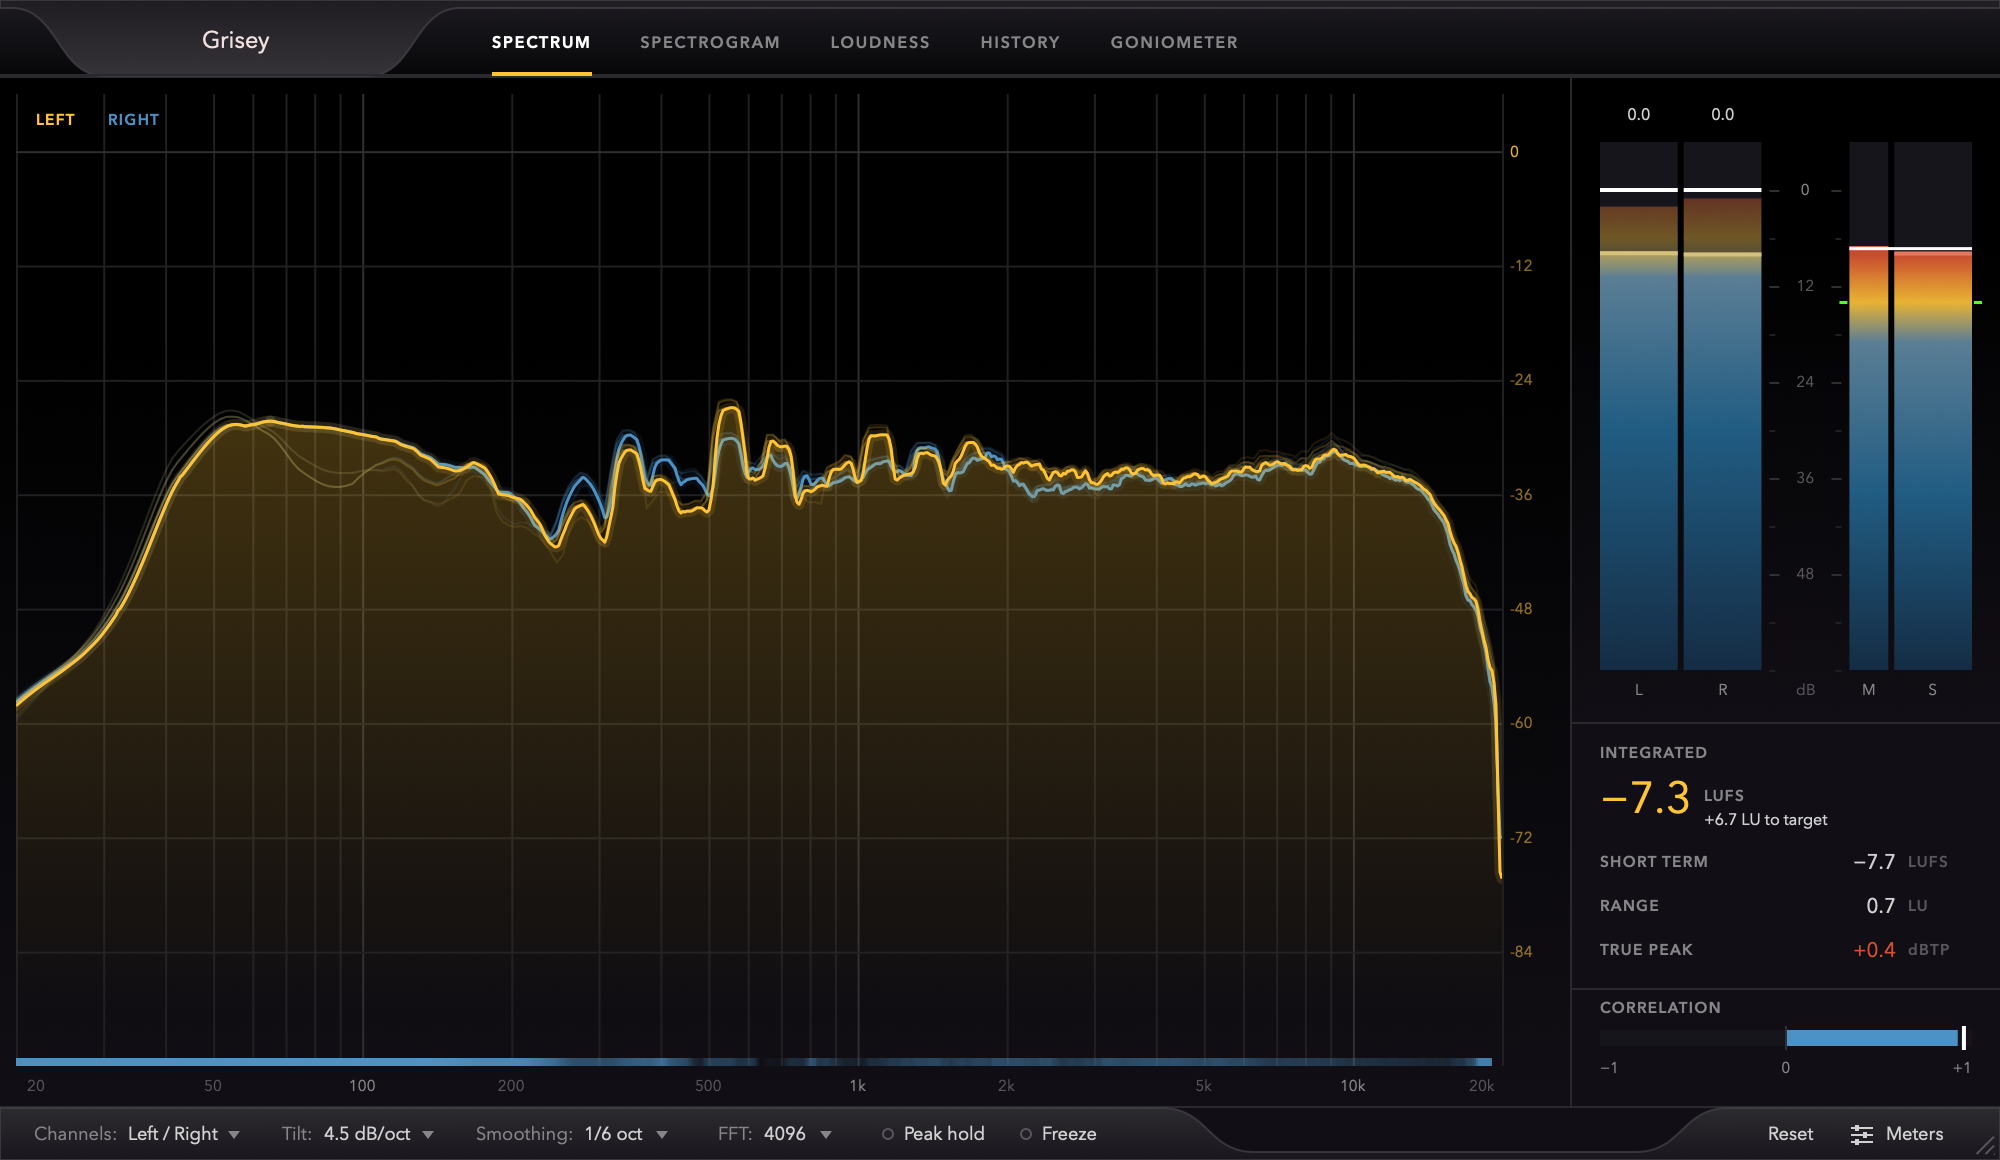
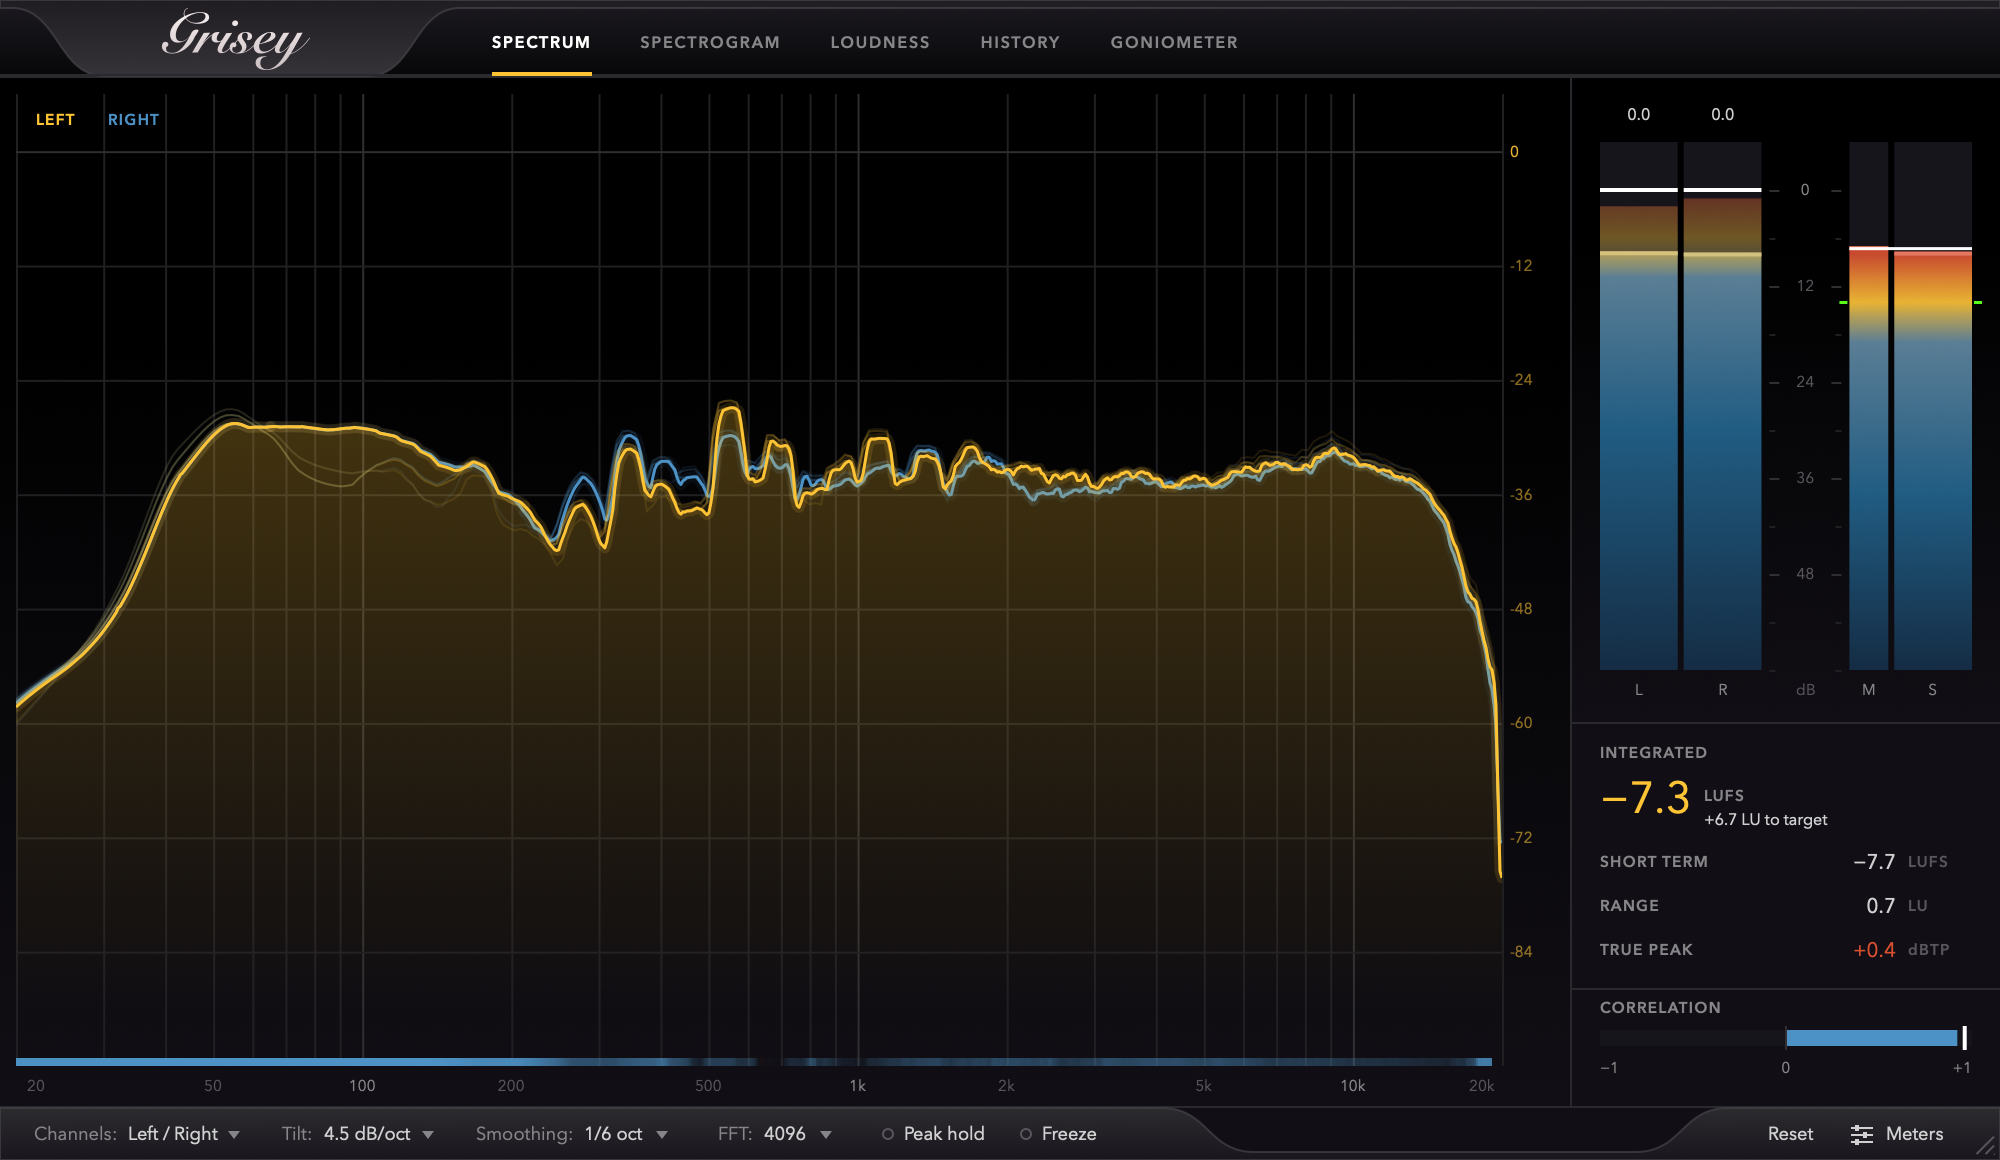
Set the name in a script, as an outline
The name in the header was plain text in the typeface of everything else. It
is now in Snell Roundhand Bold, in the silver that it had, a little lighter at
the top than at the bottom, and large enough to fill its tab.

Few computers that are not Macs have that typeface, so the name is not drawn as
text. The snapshot tool writes its outline (GriseySnapshot out.svg wordmark
"Snell Roundhand" Bold Source/UI/Wordmark.h): as the data of an SVG path in a
header, which the editor reads once and fills, and as an SVG on a dark plate,
which heads the README. To change the cut or the typeface, run it again.

diff --git a/Source/UI/Wordmark.h b/Source/UI/Wordmark.h
@@ -1,0 +1,84 @@
+#pragma once
+
+// The name of the plugin as an outline, so that it is drawn the same on every computer, whether or not
+// it has the typeface. Written by: GriseySnapshot docs/images/wordmark.svg wordmark "Snell Roundhand" Bold Source/UI/Wordmark.h
+// The outline is the data of an SVG path, 419.03 wide and 175.42 high, from the top left.
+namespace Wordmark
+{
+    inline constexpr float width = 419.03f;
+    inline constexpr float height = 175.42f;
+
+    inline constexpr const char* outline =
+        "M73.59 1.27Q69.15 2.38 66.3 6.34Q63.44 10.31 63.44 14.91Q63.44 16.97 63.68 19.11Q63.92 21.25 64.71 23Q68.99 20"
+        ".78 74.23 18.72Q79.46 16.65 85.17 15.15Q90.88 13.64 96.75 12.69Q102.62 11.74 108.01 11.74Q120.22 11.74 126.8 1"
+        "5.23Q133.39 18.72 133.39 26.33Q133.39 31.88 129.98 35.45Q126.57 39.02 121.57 41.08Q116.57 43.14 111.02 43.93Q1"
+        "05.47 44.73 101.35 44.73Q90.4 44.73 82 41.4Q73.59 38.07 66.61 29.82Q61.7 33.62 56.78 38.86Q51.86 44.09 47.9 50"
+        ".2Q43.93 56.3 41.55 63.05Q39.18 69.79 39.18 76.45Q39.18 80.1 39.89 83.35Q40.6 86.6 42.35 88.98Q44.09 91.36 46."
+        "87 92.78Q49.64 94.21 53.61 94.21Q56.94 94.21 60.9 92.78Q64.87 91.36 68.6 88.98Q72.32 86.6 75.34 83.66Q78.35 80"
+        ".73 79.78 77.72Q81.52 74.23 83.03 71.21Q84.54 68.2 86.52 65.9Q88.5 63.6 91.36 62.33Q94.21 61.06 98.49 61.06Q10"
+        "3.41 61.06 103.41 62.81Q103.41 64.87 101.9 67.64Q100.4 70.42 98.49 73.28Q96.59 76.13 94.77 78.59Q92.94 81.05 9"
+        "2.31 82.79Q90.88 86.6 87.95 91.51Q85.01 96.43 80.89 101.51Q76.76 106.58 71.29 111.5Q65.82 116.42 59.24 120.22Q"
+        "52.66 124.03 44.89 126.41Q37.11 128.79 28.23 128.79Q23.47 128.79 18.4 127.76Q13.32 126.72 9.28 124.35Q5.23 121"
+        ".97 2.62 118.08Q0 114.2 0 108.64Q0 103.57 2.3 99.6Q4.6 95.64 9.99 95.64Q13.01 95.64 15.54 97.38Q18.08 99.13 18"
+        ".08 103.57Q18.08 108.64 12.37 109.91Q12.21 111.02 11.97 112.13Q11.74 113.24 11.74 114.51Q11.74 118.64 13.24 12"
+        "1.09Q14.75 123.55 17.29 124.82Q19.83 126.09 23.08 126.49Q26.33 126.88 29.82 126.88Q38.38 126.88 45.36 122.52Q5"
+        "2.34 118.16 58.05 111.66Q63.76 105.15 68.44 97.7Q73.12 90.25 77.08 84.22L76.76 83.9Q73.59 86.76 69.87 89.29Q66"
+        ".14 91.83 62.09 93.74Q58.05 95.64 53.69 96.83Q49.33 98.02 44.89 98.02Q34.42 98.02 28.71 91.67Q23 85.33 23 75.1"
+        "8Q23 66.3 26.57 58.6Q30.13 50.91 35.84 44.49Q41.55 38.07 48.61 32.83Q55.67 27.6 62.81 23.63Q62.33 21.89 61.93 "
+        "20.3Q61.54 18.72 61.54 16.34Q61.54 10.31 64.79 5.95Q68.04 1.59 73.59 0L73.59 1.27ZM123.24 23.95Q123.24 19.19 1"
+        "19.83 16.42Q116.42 13.64 107.06 13.64Q102.62 13.64 97.22 14.91Q91.83 16.18 86.36 18.32Q80.89 20.46 76.05 23.24"
+        "Q71.21 26.01 67.88 28.87Q73.43 35.53 80.02 38.7Q86.6 41.87 95.48 41.87Q101.35 41.87 106.42 40.44Q111.5 39.02 1"
+        "15.23 36.56Q118.95 34.1 121.09 30.85Q123.24 27.6 123.24 23.95ZM85.33 126.25Q93.42 112.29 101.74 98.49Q110.07 8"
+        "4.69 118.32 70.42L136.4 69.79L115.46 99.29L115.78 99.6Q121.81 92.15 126.49 87.63Q131.17 83.11 134.66 80.25Q138"
+        ".14 77.4 140.52 75.89Q142.9 74.39 144.01 73.28Q145.76 71.53 147.26 70.5Q148.77 69.47 150.83 68.91Q152.89 68.36"
+        " 155.83 68.2Q158.76 68.04 163.2 67.88Q160.19 72.16 157.65 76.84Q155.11 81.52 155.11 86.92Q155.11 93.74 161.93 "
+        "93.74Q164.16 93.74 166.3 92.78Q168.44 91.83 170.34 90.4Q172.24 88.98 173.99 87.31Q175.73 85.65 177.16 84.22L17"
+        "7.8 85.01Q173.35 90.56 167.33 94.05Q161.3 97.54 154.16 97.54Q147.82 97.54 144.17 94.21Q140.52 90.88 140.52 84."
+        "38Q140.52 80.25 142.9 76.61L142.59 76.29Q135.92 80.73 129.9 86.6Q123.87 92.47 118.72 98.97Q113.56 105.47 109.2"
+        " 112.37Q104.84 119.27 101.35 125.77L85.33 126.25ZM198.57 70.42Q191.12 82.16 185.73 90.48Q180.33 98.81 176.92 1"
+        "04.68Q173.51 110.55 171.85 114.27Q170.18 118 170.18 120.38Q170.18 122.28 170.9 123.47Q171.61 124.66 173.04 124"
+        ".66Q176.21 124.66 182 121.02Q187.79 117.37 196.51 108.49Q200 104.84 203.33 101.27Q206.66 97.7 209.6 94.37Q212."
+        "53 91.04 214.83 88.34Q217.13 85.65 218.56 84.06L219.98 85.01Q218.08 87.55 215.31 90.8Q212.53 94.05 209.36 97.6"
+        "2Q206.19 101.19 202.85 104.68Q199.52 108.17 196.35 111.34Q187.15 120.54 180.57 124.19Q173.99 127.84 168.44 127"
+        ".84Q163.2 127.84 160.35 124.98Q157.49 122.13 157.49 117.53Q157.49 114.35 158.68 110.94Q159.87 107.53 162.73 10"
+        "2.46Q165.58 97.38 170.34 89.85Q175.1 82.32 182.24 71.21L198.57 70.42ZM207.77 35.21Q210.79 35.21 213.08 37.43Q2"
+        "15.38 39.65 215.38 42.66Q215.38 45.84 212.85 48.45Q210.31 51.07 207.14 51.07Q203.65 51.07 201.11 49.25Q198.57 "
+        "47.42 198.57 43.77Q198.57 40.13 201.35 37.67Q204.12 35.21 207.77 35.21ZM226.96 125.77Q235.05 124.03 241.95 119"
+        ".83Q248.85 115.62 254.88 109.99Q260.9 104.36 266.22 97.78Q271.53 91.2 276.61 84.54L277.87 85.49Q271.53 93.74 2"
+        "65.19 101.59Q258.84 109.44 251.31 115.46Q243.77 121.49 234.81 125.14Q225.85 128.79 214.27 128.79Q210.15 128.79"
+        " 206.11 127.91Q202.06 127.04 198.81 125.06Q195.56 123.08 193.58 119.83Q191.59 116.57 191.59 111.82Q191.59 109."
+        "28 192.31 106.74Q193.02 104.2 194.45 102.14Q195.88 100.08 198.02 98.73Q200.16 97.38 203.01 97.38Q206.66 97.38 "
+        "208.64 99.44Q210.63 101.51 210.63 104.2Q210.63 107.53 208.72 109.28Q206.82 111.02 204.28 111.02Q202.22 111.02 "
+        "200.79 110.23Q200 111.66 199.44 113.32Q198.89 114.99 198.89 116.73Q198.89 121.17 202.3 124.03Q205.71 126.88 21"
+        "0.31 126.88Q213.16 126.88 216.1 125.93Q219.03 124.98 221.33 123.16Q223.63 121.33 225.06 118.79Q226.49 116.26 2"
+        "26.49 113.24Q226.49 109.12 224.5 105.71Q222.52 102.3 220.14 99.13Q217.76 95.96 215.78 92.7Q213.8 89.45 213.8 8"
+        "5.8Q213.8 81.36 215.86 78.03Q217.92 74.7 221.25 72.4Q224.58 70.1 228.71 68.99Q232.83 67.88 237.11 67.88Q244.73"
+        " 67.88 249.88 71.13Q255.04 74.39 255.04 80.41Q255.04 85.01 252.02 87.95Q249.01 90.88 244.41 90.88Q242.98 90.88"
+        " 241.79 90.64Q240.6 90.4 239.81 90.09Q241.55 86.92 242.27 83.82Q242.98 80.73 242.98 77.72Q242.98 74.54 241.16 "
+        "72.16Q239.33 69.79 235.69 69.79Q231.25 69.79 228.87 72.56Q226.49 75.34 226.49 79.46Q226.49 83.9 228.47 87.31Q2"
+        "30.45 90.72 232.83 93.89Q235.21 97.07 237.19 100.56Q239.18 104.04 239.18 108.8Q239.18 111.82 238.14 114.67Q237"
+        ".11 117.53 235.37 119.75Q233.62 121.97 231.48 123.47Q229.34 124.98 226.96 125.46L226.96 125.77ZM343.06 84.69Q3"
+        "38.14 91.36 332.51 97.86Q326.88 104.36 319.11 111.5Q308.17 121.33 298.1 125.06Q288.03 128.79 279.14 128.79Q270"
+        ".1 128.79 264.87 123.39Q259.64 118 259.64 109.44Q259.64 101.82 264.23 94.37Q268.83 86.92 275.81 81.05Q282.79 7"
+        "5.18 291.12 71.53Q299.44 67.88 306.9 67.88Q313.72 67.88 317.53 70.5Q321.33 73.12 321.33 77.87Q321.33 81.68 318"
+        ".72 84.85Q316.1 88.03 311.97 90.56Q307.85 93.1 302.7 95Q297.54 96.91 292.47 98.33Q287.39 99.76 282.95 100.71Q2"
+        "78.51 101.67 275.65 102.3Q274.86 105.47 274.86 108.01Q274.86 114.83 278.67 119.11Q282.47 123.39 289.29 123.39Q"
+        "295.96 123.39 303.97 119.43Q311.97 115.46 320.06 107.85Q326.25 101.98 331.96 95.56Q337.67 89.14 341.95 83.58L3"
+        "43.06 84.69ZM308.64 73.91Q308.64 71.69 307.45 70.74Q306.26 69.79 304.36 69.79Q300.4 69.79 295.8 73.12Q291.2 76"
+        ".45 287.15 81.28Q283.11 86.12 280.02 91.44Q276.92 96.75 275.97 100.71Q282.47 99.44 288.34 96.51Q294.21 93.58 2"
+        "98.73 89.85Q303.25 86.12 305.95 81.92Q308.64 77.72 308.64 73.91ZM295.48 138.78Q294.69 138.62 292.62 138.62Q285"
+        ".8 138.62 282.08 143.54Q278.35 148.45 278.35 155.59Q278.35 164 283.51 168.75Q288.66 173.51 296.27 173.51Q304.3"
+        "6 173.51 311.5 170.1Q318.64 166.69 324.82 161.06Q331.01 155.43 336.48 148.22Q341.95 141 346.63 133.39Q351.31 1"
+        "25.77 355.43 118.48Q359.56 111.18 363.05 105.31L362.73 105Q360.35 107.85 356.78 111.74Q353.21 115.62 348.77 11"
+        "9.19Q344.33 122.76 339.41 125.3Q334.5 127.84 329.42 127.84Q324.19 127.84 321.89 124.82Q319.59 121.81 319.59 11"
+        "7.68Q319.59 113.72 321.81 108.64Q324.03 103.57 327.44 97.46Q330.85 91.36 335.13 84.54Q339.41 77.72 343.7 70.42"
+        "L360.51 69.79Q347.18 90.56 339.73 102.62Q332.28 114.67 332.28 119.75Q332.28 121.65 333.47 122.84Q334.66 124.03"
+        " 336.4 124.03Q339.25 124.03 343.7 121.09Q348.14 118.16 353.13 113.24Q358.13 108.33 363.2 101.9Q368.28 95.48 37"
+        "2.4 88.66Q375.89 82.95 378.59 78.19Q381.28 73.43 382.55 70.42L398.1 69.79Q389.53 84.54 381.52 99.21Q373.51 113"
+        ".88 364.79 128.31Q372.4 126.09 379.86 121.41Q387.31 116.73 394.21 110.55Q401.11 104.36 407.06 97.38Q413.01 90."
+        "4 417.76 83.74L419.03 84.85Q413.64 92.62 407.14 100Q400.63 107.38 393.42 113.48Q386.2 119.59 378.59 124.03Q370"
+        ".98 128.47 363.36 130.37Q357.65 140.05 350.52 148.3Q343.38 156.54 334.81 162.57Q326.25 168.6 316.26 172.01Q306"
+        ".26 175.42 294.85 175.42Q289.14 175.42 283.74 174.39Q278.35 173.35 274.23 170.9Q270.1 168.44 267.57 164.39Q265"
+        ".03 160.35 265.03 154.48Q265.03 149.72 267.01 146.39Q268.99 143.06 272.24 140.92Q275.5 138.78 279.7 137.75Q283"
+        ".9 136.72 288.34 136.72Q290.25 136.72 292.23 136.88Q294.21 137.03 295.48 137.35L295.48 138.78Z";
+}

diff --git a/Tests/Snapshot.cpp b/Tests/Snapshot.cpp
@@ -94,6 +94,93 @@ namespace
     }
 }
 
+namespace
+{
+    // Writes the name as outlines, so that it looks the same on a computer that does not have the typeface:
+    // an SVG for the README, and the same outline as a header for the plugin.
+    //   GriseySnapshot docs/images/wordmark.svg wordmark "Snell Roundhand" Bold Source/UI/Wordmark.h
+    bool writeWordmark(const juce::File& svgFile, const juce::String& typeface, const juce::String& style, const juce::File& headerFile)
+    {
+        if (! juce::Font::findAllTypefaceNames().contains(typeface))
+        {
+            std::cout << "This computer does not have " << typeface << std::endl;
+            return false;
+        }
+
+        // Large, so that two decimal places are plenty
+        const juce::Font font(juce::FontOptions(typeface, 200.f, juce::Font::plain).withStyle(style));
+        juce::GlyphArrangement glyphs;
+        glyphs.addLineOfText(font, "Grisey", 0.f, 0.f);
+
+        juce::Path outline;
+        glyphs.createPath(outline);
+
+        const auto bounds = outline.getBounds();
+        outline.applyTransform(juce::AffineTransform::translation(-bounds.getX(), -bounds.getY()));
+
+        auto number = [](float value) { return juce::String(value, 2).trimCharactersAtEnd("0").trimCharactersAtEnd("."); };
+
+        juce::String data;
+        juce::Path::Iterator segment(outline);
+        while (segment.next())
+        {
+            switch (segment.elementType)
+            {
+                case juce::Path::Iterator::startNewSubPath: data << "M" << number(segment.x1) << " " << number(segment.y1); break;
+                case juce::Path::Iterator::lineTo:          data << "L" << number(segment.x1) << " " << number(segment.y1); break;
+                case juce::Path::Iterator::quadraticTo:     data << "Q" << number(segment.x1) << " " << number(segment.y1) << " " << number(segment.x2) << " " << number(segment.y2); break;
+                case juce::Path::Iterator::cubicTo:         data << "C" << number(segment.x1) << " " << number(segment.y1) << " " << number(segment.x2) << " " << number(segment.y2)
+                                                                 << " " << number(segment.x3) << " " << number(segment.y3); break;
+                case juce::Path::Iterator::closePath:       data << "Z"; break;
+            }
+        }
+
+        const auto width = number(bounds.getWidth()), height = number(bounds.getHeight());
+
+        juce::String svg;
+        // The name is silver, so it stands on a dark plate, or it could not be seen on a white page
+        const float margin = 70.f;
+        const auto plateWidth = number(bounds.getWidth() + 2.f * margin), plateHeight = number(bounds.getHeight() + 2.f * margin);
+
+        svg << "<svg xmlns=\"http://www.w3.org/2000/svg\" viewBox=\"0 0 " << plateWidth << " " << plateHeight << "\" role=\"img\" aria-label=\"Grisey\">\n"
+            << "  <defs>\n"
+            << "    <linearGradient id=\"silver\" x1=\"0\" y1=\"0\" x2=\"0\" y2=\"1\">\n"
+            << "      <stop offset=\"0\" stop-color=\"#fbf3f3\"/>\n"
+            << "      <stop offset=\"1\" stop-color=\"#c9bdc0\"/>\n"
+            << "    </linearGradient>\n"
+            << "    <linearGradient id=\"plate\" x1=\"0\" y1=\"0\" x2=\"0\" y2=\"1\">\n"
+            << "      <stop offset=\"0\" stop-color=\"#201d22\"/>\n"
+            << "      <stop offset=\"1\" stop-color=\"#353238\"/>\n"
+            << "    </linearGradient>\n"
+            << "  </defs>\n"
+            << "  <rect width=\"" << plateWidth << "\" height=\"" << plateHeight << "\" rx=\"44\" fill=\"url(#plate)\"/>\n"
+            << "  <path transform=\"translate(" << number(margin) << " " << number(margin) << ")\" fill=\"url(#silver)\" d=\"" << data << "\"/>\n"
+            << "</svg>\n";
+
+        svgFile.replaceWithText(svg, false, false, "\n");
+
+        // A string literal has a limit in some compilers, so the outline is written as many short ones
+        juce::String header;
+        header << "#pragma once\n\n"
+               << "// The name of the plugin as an outline, so that it is drawn the same on every computer, whether or not\n"
+               << "// it has the typeface. Written by: GriseySnapshot docs/images/wordmark.svg wordmark \"" << typeface << "\" " << style << " Source/UI/Wordmark.h\n"
+               << "// The outline is the data of an SVG path, " << width << " wide and " << height << " high, from the top left.\n"
+               << "namespace Wordmark\n{\n"
+               << "    inline constexpr float width = " << width << "f;\n"
+               << "    inline constexpr float height = " << height << "f;\n\n"
+               << "    inline constexpr const char* outline =\n";
+
+        for (int start = 0; start < data.length(); start += 110)
+            header << "        \"" << data.substring(start, start + 110) << "\"\n";
+
+        header = header.dropLastCharacters(1) + ";\n}\n";
+        headerFile.replaceWithText(header, false, false, "\n");
+
+        std::cout << "Saved " << svgFile.getFullPathName() << " and " << headerFile.getFullPathName() << " (" << data.length() << " characters of outline)" << std::endl;
+        return true;
+    }
+}
+
 int main(int argc, char* argv[])
 {
     if (argc < 2)
@@ -107,6 +194,12 @@ int main(int argc, char* argv[])
     const double seconds = argc > 3 ? juce::String(argv[3]).getDoubleValue() : 2.0;
 
     juce::ScopedJuceInitialiser_GUI juceInit;
+
+    if (argc > 5 && juce::String(argv[2]) == "wordmark")
+    {
+        const auto cwd = juce::File::getCurrentWorkingDirectory();
+        return writeWordmark(output, argv[3], argv[4], cwd.getChildFile(juce::String(argv[5]))) ? 0 : 1;
+    }
 
     if (argc > 2 && juce::String(argv[2]) == "menu")
     {

diff --git a/Source/PluginEditor.cpp b/Source/PluginEditor.cpp
@@ -9,6 +9,7 @@
 
 #include "PluginProcessor.h"
 #include "PluginEditor.h"
+#include "UI/Wordmark.h"
 
 namespace
 {
@@ -45,6 +46,8 @@ GriseyAudioProcessorEditor::GriseyAudioProcessorEditor(GriseyAudioProcessor& p) 
 
     setLookAndFeel(&lookAndFeel);
     setOpaque(true);
+
+    wordmarkOutline = juce::Drawable::parseSVGPath(Wordmark::outline);
 
     // The tabs change between the views
     addAndMakeVisible(tabs);
@@ -135,6 +138,7 @@ namespace
     // The widths of the raised tab that holds the name, and of the shoulders on either side of it
     constexpr float nameTabStart = 6.f;
     constexpr float nameTabWidth = 132.f;
+    constexpr float wordmarkHeight = 31.f;
     constexpr float shoulderWidth = 46.f;
 
     // The thickness of the raised edge that runs along the rest of the chrome
@@ -182,10 +186,15 @@ void GriseyAudioProcessorEditor::paintHeader(juce::Graphics& g, juce::Rectangle<
     g.setColour(Theme::edge);
     g.fillRect(bounds.withTop(bounds.getBottom() - 1.f));
 
-    // The name of the plugin
-    g.setFont(Theme::font(16.f));
-    g.setColour(Theme::wordmark);
-    g.drawText("Grisey", area.withX(juce::roundToInt(tabLeft)).withWidth(juce::roundToInt(nameTabWidth)).translated(0, 1), juce::Justification::centred);
+    // The name of the plugin is an outline, not text, so that it is drawn the same on a computer that
+    // does not have its typeface. It is a silver that is a little lighter at the top than at the bottom.
+    const auto nameArea = juce::Rectangle<float>(tabLeft, bounds.getY(), nameTabWidth, bounds.getHeight()).reduced(4.f, 0.f)
+                              .withSizeKeepingCentre(nameTabWidth - 8.f, wordmarkHeight).translated(0.f, 0.5f);
+    const auto placement = juce::RectanglePlacement(juce::RectanglePlacement::centred)
+                               .getTransformToFit({ 0.f, 0.f, Wordmark::width, Wordmark::height }, nameArea);
+
+    g.setGradientFill(juce::ColourGradient(Theme::wordmarkTop, 0.f, nameArea.getY(), Theme::wordmarkBottom, 0.f, nameArea.getBottom(), false));
+    g.fillPath(wordmarkOutline, placement);
 }
 
 void GriseyAudioProcessorEditor::paintBottomBar(juce::Graphics& g, juce::Rectangle<int> area)

diff --git a/Source/UI/Theme.h b/Source/UI/Theme.h
@@ -41,7 +41,8 @@ namespace Theme
     inline const juce::Colour textDim { 0xff868587 };
     inline const juce::Colour textFaint { 0xff58565c };
     inline const juce::Colour knobLabel { 0xffb9bdc0 };
-    inline const juce::Colour wordmark { 0xfff0e0e0 };  // the name of the plugin in the header
+    inline const juce::Colour wordmarkTop { 0xfffbf3f3 };     // the name of the plugin in the header is a silver,
+    inline const juce::Colour wordmarkBottom { 0xffc9bdc0 };  // lighter at the top than at the bottom
 
     // Signal
     inline const juce::Colour accent { 0xffffc435 };   // yellow: the left or mid channel, and anything that is "the signal"

diff --git a/Source/PluginEditor.h b/Source/PluginEditor.h
@@ -74,6 +74,9 @@ private:
     GriseyLookAndFeel lookAndFeel;
     TabBar tabs;
 
+    // The outline of the name in the header, read once from UI/Wordmark.h
+    juce::Path wordmarkOutline;
+
     // The views, of which one is showing. The spectrum and the spectrogram draw the same spectra.
     SpectrumSource spectrumSource;
     GoniometerView goniometerView;

diff --git a/README.md b/README.md
@@ -1,4 +1,4 @@
-# Grisey
+<h1 align="center"><img src="docs/images/wordmark.svg" alt="Grisey" width="300"></h1>
 
 Grisey is a free, open-source metering suite for mixing and mastering: level, loudness, true peak, spectrum, spectrogram, stereo image, and phase correlation, all in one resizable window. It aims to be state of the art, the kind of metering you'd expect to pay for. Its measurements follow the published standards (ITU-R BS.1770 and EBU R 128) and are tested against them, and it's free for everyone.
 
@@ -133,6 +133,9 @@ Up to version 1 it was called MultiMeter. Hosts know a plugin by its codes rathe
 Grisey is free software under the GPLv3 (see [LICENSE.md](LICENSE.md)). It is built with
 [JUCE](https://juce.com) 9, used under the AGPLv3, and
 [clap-juce-extensions](https://github.com/free-audio/clap-juce-extensions).
+
+The name in the header is set in Snell Roundhand, and drawn as an outline (`Source/UI/Wordmark.h`,
+`docs/images/wordmark.svg`), so that it looks the same on a computer that does not have the typeface.
 
 The look of the interface is inspired by FabFilter's plugins. Grisey is an independent project:
 it is not made, endorsed, or supported by FabFilter, and it uses none of their artwork or code.
